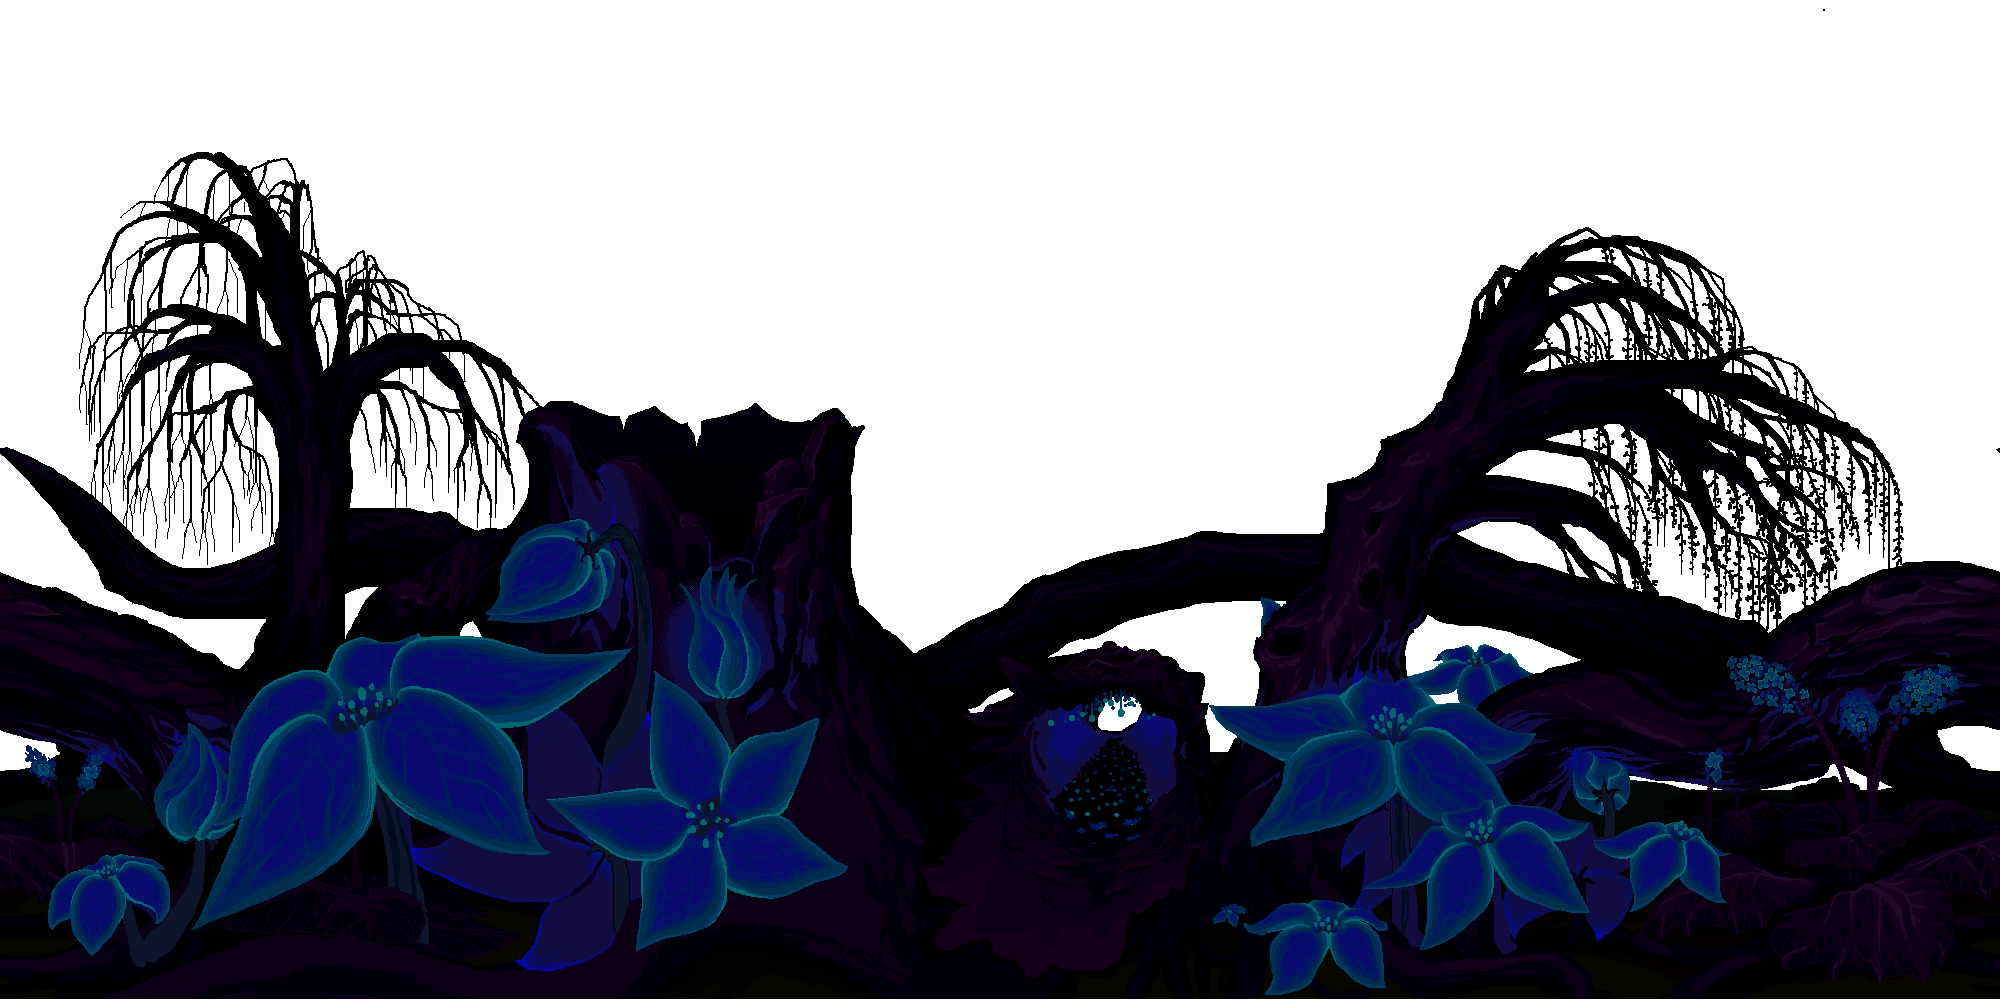
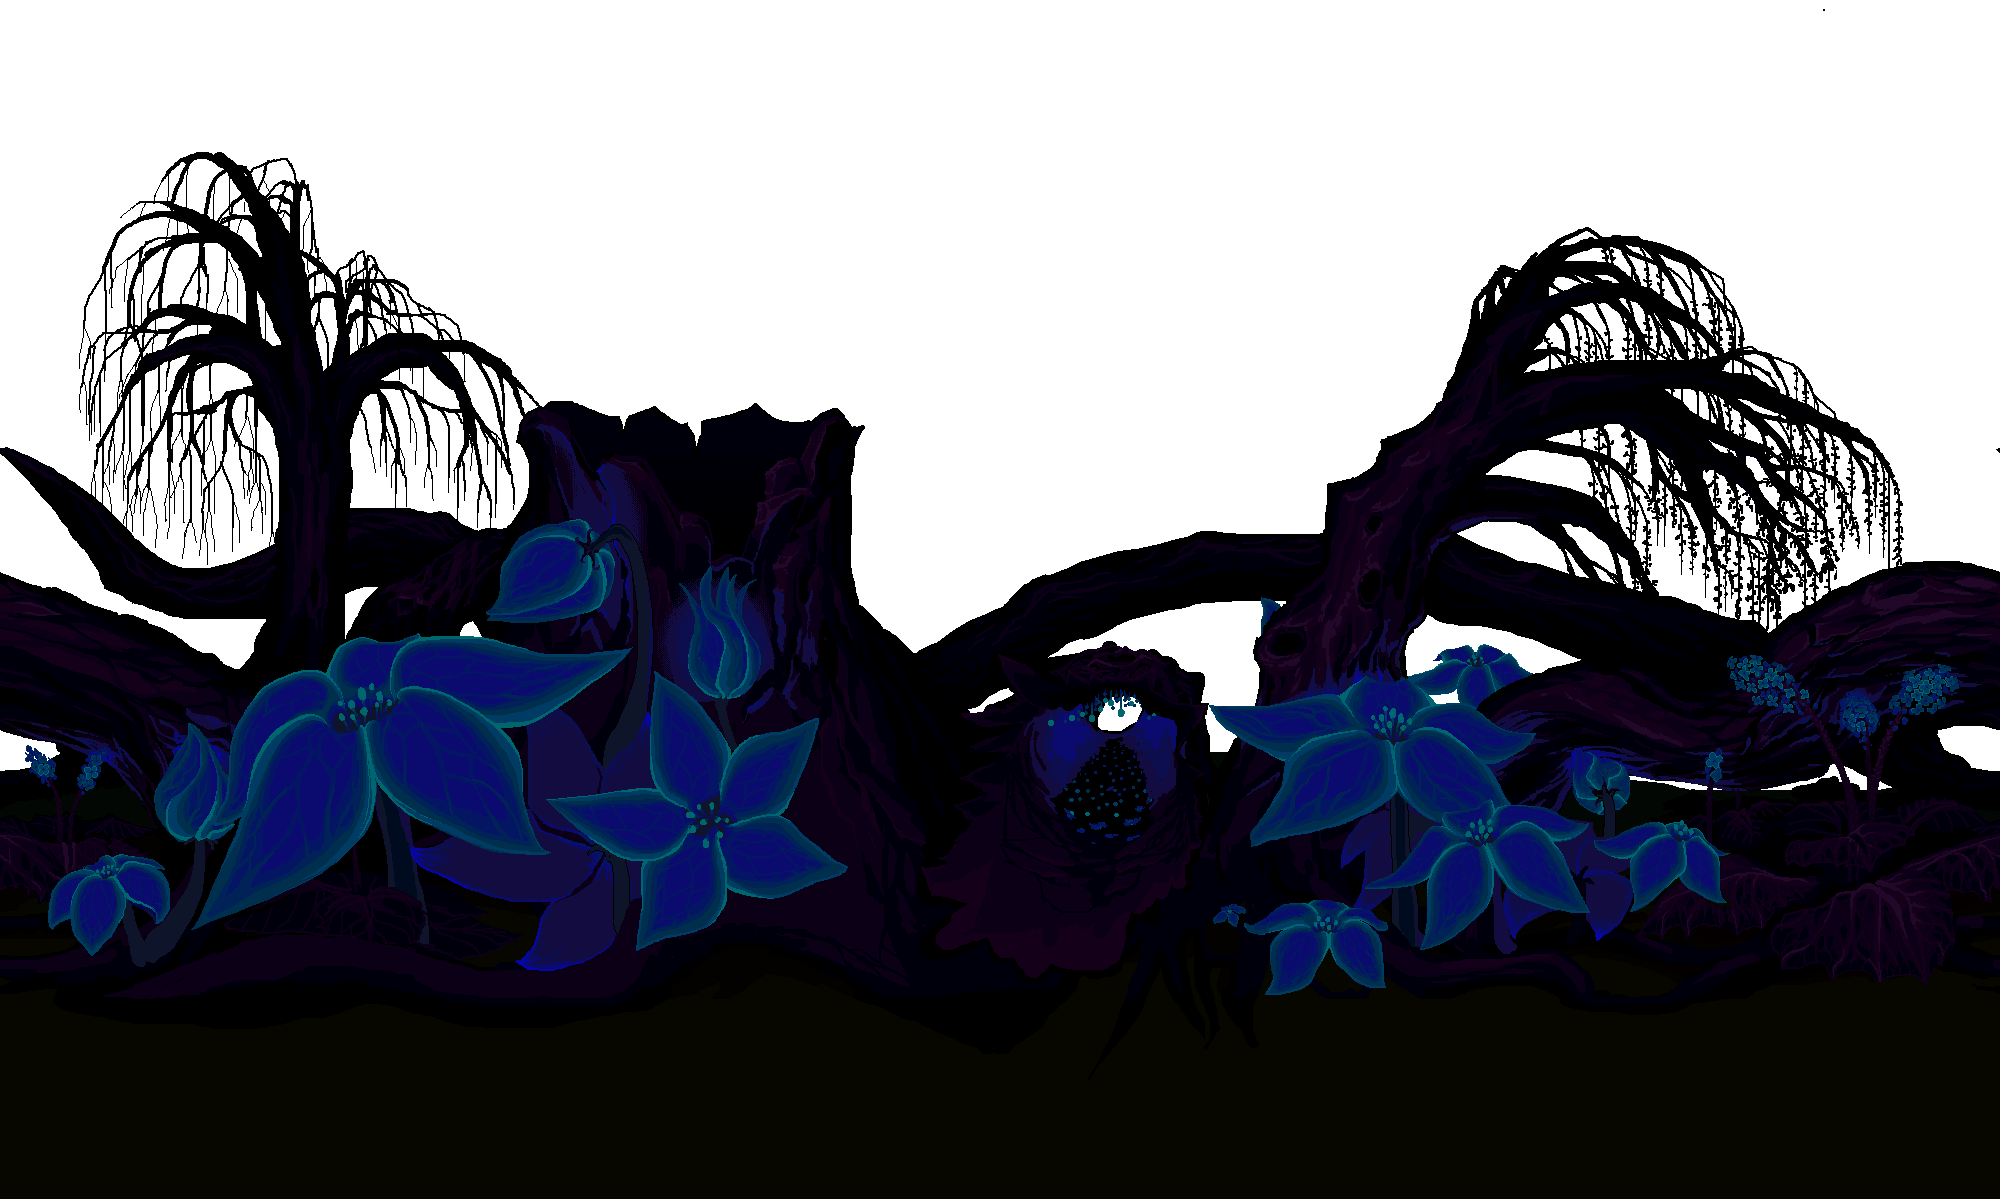
suit 4k resolution

diff --git a/Sources/Modules/MythModule/TheFirefly/Backgrounds/MothBackground.cs b/Sources/Modules/MythModule/TheFirefly/Backgrounds/MothBackground.cs
@@ -494,19 +494,20 @@ namespace Everglow.Sources.Modules.MythModule.TheFirefly.Backgrounds
             rvcII.Y -= 300;
             rvcII.X += 300;
             Color colorCloseII = GetLuminace(Color.White * alpha);
+            float UpY = rvcII.Y / (float)texCloseII.Height;
+            float DownY = (rvcII.Y + rvcII.Height) / (float)texCloseII.Height;
             List<Vertex2D> CloseII = new List<Vertex2D>
             {
-                new Vertex2D(new Vector2(0, 0), colorCloseII, new Vector3(rvcII.X / (float)texCloseII.Width, rvcII.Y / (float)texCloseII.Height, 0)),
-                new Vertex2D(new Vector2(Main.screenWidth, 0), colorCloseII, new Vector3((rvcII.X + rvcII.Width) / (float)texCloseII.Width, rvcII.Y / (float)texCloseII.Height, 0)),
-                new Vertex2D(new Vector2(0, Main.screenHeight), colorCloseII, new Vector3(rvcII.X / (float)texCloseII.Width, (rvcII.Y + rvcII.Height) / (float)texCloseII.Height, 0)),
+                new Vertex2D(new Vector2(0, 0), colorCloseII, new Vector3(rvcII.X / (float)texCloseII.Width, UpY, 0)),
+                new Vertex2D(new Vector2(Main.screenWidth, 0), colorCloseII, new Vector3((rvcII.X + rvcII.Width) / (float)texCloseII.Width, UpY, 0)),
+                new Vertex2D(new Vector2(0, Main.screenHeight), colorCloseII, new Vector3(rvcII.X / (float)texCloseII.Width, DownY, 0)),
 
-                new Vertex2D(new Vector2(0, Main.screenHeight), colorCloseII, new Vector3(rvcII.X / (float)texCloseII.Width, (rvcII.Y + rvcII.Height) / (float)texCloseII.Height, 0)),
-                new Vertex2D(new Vector2(Main.screenWidth, 0), colorCloseII, new Vector3((rvcII.X + rvcII.Width) / (float)texCloseII.Width, rvcII.Y / (float)texCloseII.Height, 0)),
-                new Vertex2D(new Vector2(Main.screenWidth, Main.screenHeight), colorCloseII, new Vector3((rvcII.X + rvcII.Width) / (float)texCloseII.Width, (rvcII.Y + rvcII.Height) / (float)texCloseII.Height, 0))
+                new Vertex2D(new Vector2(0, Main.screenHeight), colorCloseII, new Vector3(rvcII.X / (float)texCloseII.Width, DownY, 0)),
+                new Vertex2D(new Vector2(Main.screenWidth, 0), colorCloseII, new Vector3((rvcII.X + rvcII.Width) / (float)texCloseII.Width, UpY, 0)),
+                new Vertex2D(new Vector2(Main.screenWidth, Main.screenHeight), colorCloseII, new Vector3((rvcII.X + rvcII.Width) / (float)texCloseII.Width, DownY, 0))
             };
             Effect bgW = MythContent.QuickEffect("Effects/BackgroundWrap");
             var projection = Matrix.CreateOrthographicOffCenter(0, Main.screenWidth, Main.screenHeight, 0, 0, 1);
-            var model = Matrix.CreateTranslation(new Vector3(-Main.screenPosition.X, -Main.screenPosition.Y, 0)) * Main.GameViewMatrix.TransformationMatrix;
             bgW.Parameters["uTransform"].SetValue(projection);
             bgW.Parameters["uTime"].SetValue(0.34f);
             bgW.CurrentTechnique.Passes[0].Apply();
@@ -517,6 +518,12 @@ namespace Everglow.Sources.Modules.MythModule.TheFirefly.Backgrounds
                 Main.graphics.GraphicsDevice.SamplerStates[0] = SamplerState.LinearWrap;
                 Main.graphics.GraphicsDevice.DrawUserPrimitives(PrimitiveType.TriangleList, CloseII.ToArray(), 0, 2);
             }
+            if (DownY > 1)
+            {
+                float DrawY = (1 - UpY) / (DownY - UpY) * Main.screenHeight - 5;
+                Main.spriteBatch.Draw(texCloseII, new Rectangle(0, (int)DrawY, Main.screenWidth, Main.screenHeight - (int)DrawY), new Rectangle(1000, 1100, 1, 1), colorCloseII);
+            }
+
 
             Main.spriteBatch.End();
             Main.spriteBatch.Begin(SpriteSortMode.Deferred, BlendState.AlphaBlend, SamplerState.PointClamp, DepthStencilState.Default, RasterizerState.CullNone, null, Main.GameViewMatrix.TransformationMatrix);
